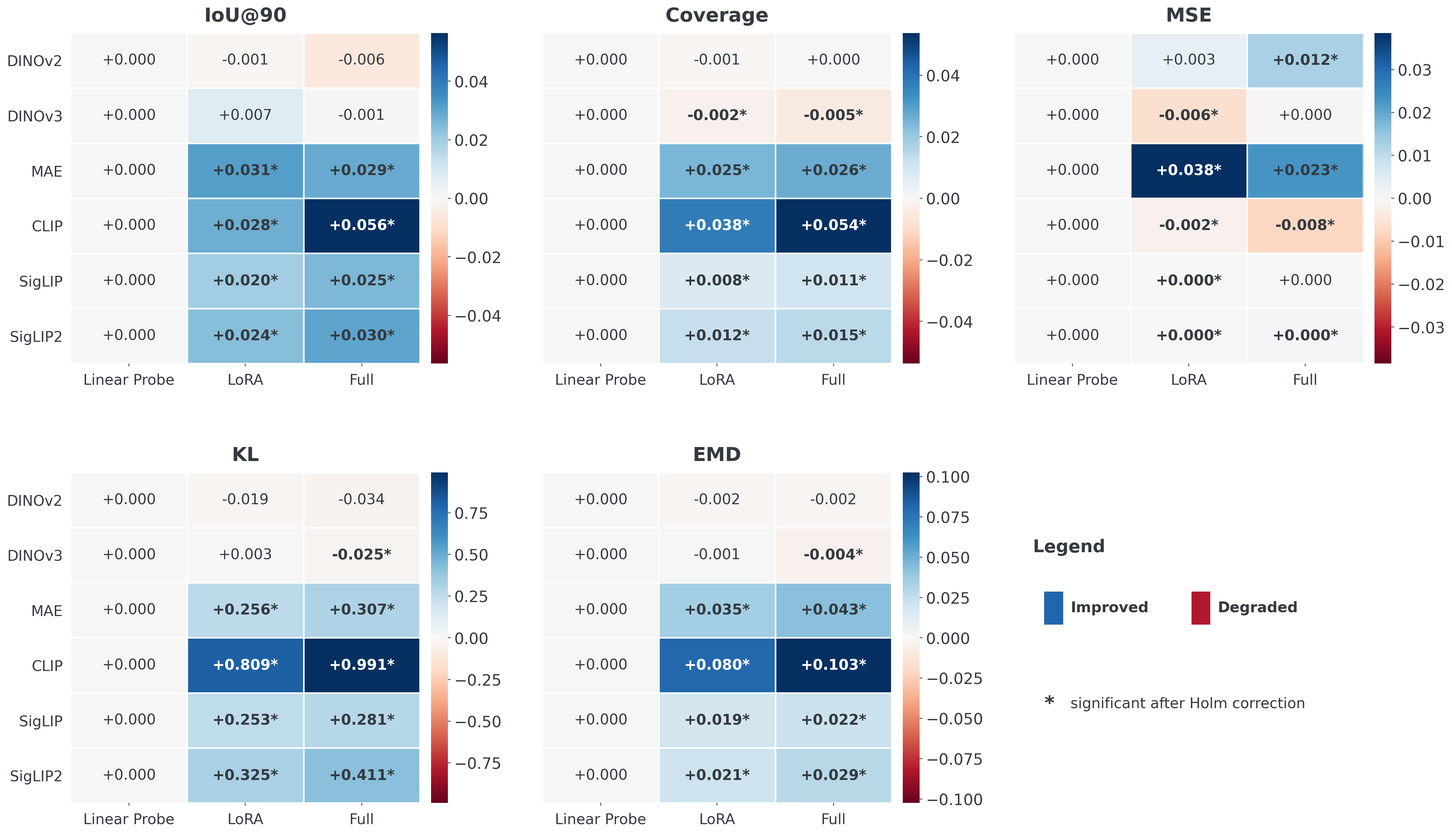
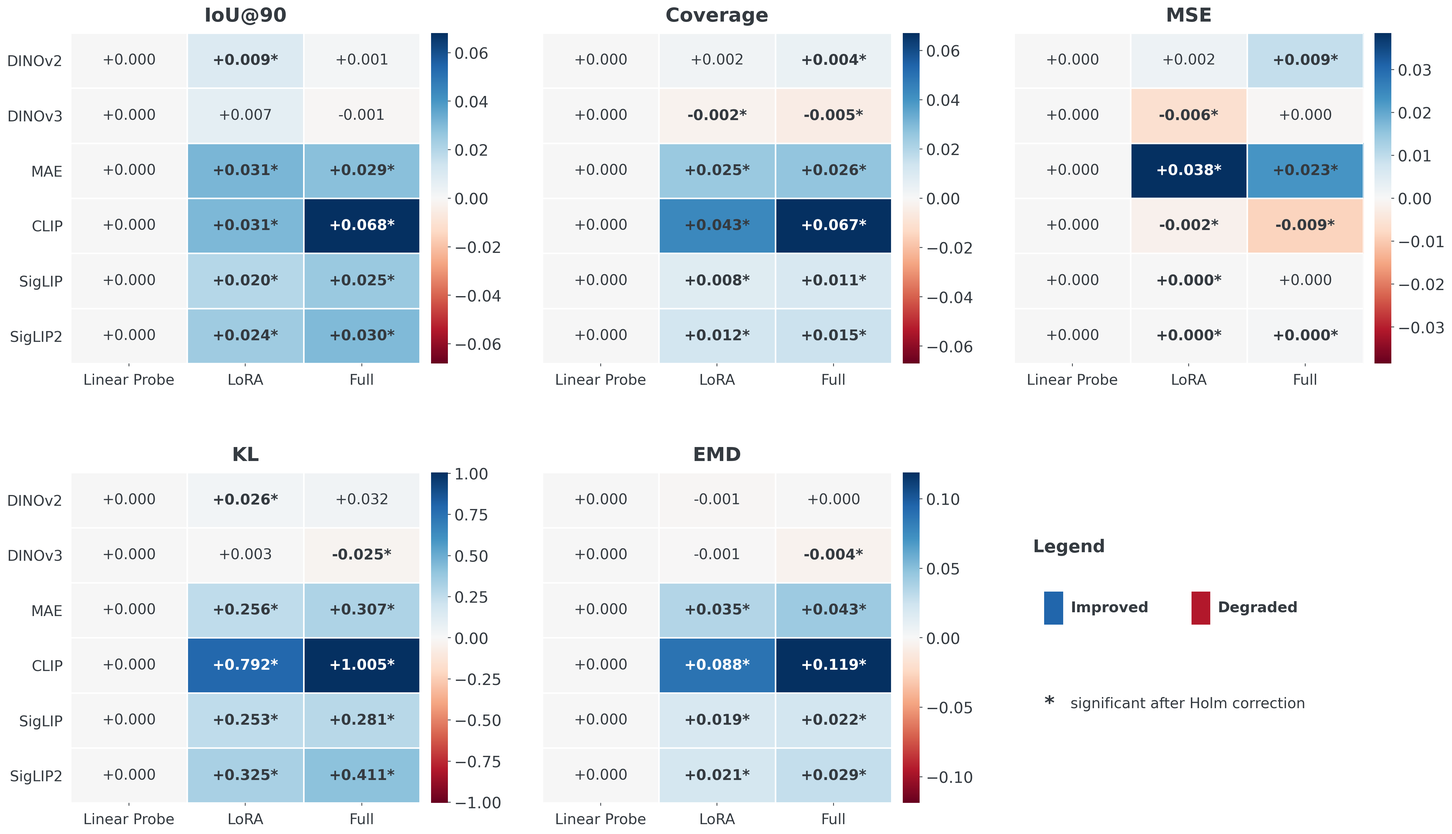
docs: describe image preprocessing and update DINOv2 and CLIP results (R1-Q4)
Implementation Details now gives the original image dimensions and the
full-image resize, and discloses that checkpoints were selected under
native preprocessing. Tables 3-5, Figs 3 and 5-8 and the RQ1-RQ3 text are
regenerated from the corrected caches. Limitations notes the aspect-ratio
distortion.

Refs: ssl_wikichurches-f9rh

diff --git a/docs/mva/round2_v1024_changes.tex b/docs/mva/round2_v1024_changes.tex
@@ -353,7 +353,7 @@ All statistical analyses use the image as the unit of analysis. For paired compa
 
 The WikiChurches benchmark dataset~\cite{Barz21WikiChurches} was divided into two non-overlapping subsets. The expert-annotated evaluation subset contains 139 images with 631 bounding-box annotation instances drawn from a 106-type architectural-feature ontology. The primary-style distribution is 51 Romanesque images with 217 boxes, 49 Gothic images with 290 boxes, 22 Renaissance images with 93 boxes, and 17 Baroque images with 31 boxes. This gives an average of 4.54 expert-annotated boxes per image overall. This subset was used only for attention-alignment evaluation and was excluded from all downstream training and validation splits.
 
-All images were loaded in RGB format. The WikiChurches bounding boxes are stored as normalized coordinates relative to the original image dimensions. During evaluation, each box was projected onto the common $224 \times 224$ image grid and converted into a binary mask. Multiple boxes from the same image were combined into a single union mask for overlap-based metrics. Negative normalized coordinates in the annotation file were clamped to zero before mask generation. Model attention maps were computed at the native patch-grid resolution of each backbone and then upsampled to $224 \times 224$ using bilinear interpolation. Each upsampled map was min-max normalized to $[0,1]$ on a per-image basis. DINOv2 uses $14 \times 14$ patches, giving a $16 \times 16$ patch grid for $224 \times 224$ inputs. DINOv3, MAE, CLIP, SigLIP, and SigLIP2 use $16 \times 16$ patches, giving a $14 \times 14$ patch grid. For EMD, both the attention map and target distributions were additionally resized to a shared $8 \times 8$ support before the transport-distance computation.
+The 139 evaluation images are JPEG files of varying size, from 414 to 2,281 pixels wide and 450 to 2,142 pixels high (median width and median height both 1,280 pixels), with width-to-height ratios between 0.60 and 1.78. All images were loaded in RGB format. For attention-alignment evaluation, each image was resized directly to $224 \times 224$ pixels without cropping, using each model's default interpolation (bicubic for DINOv2, CLIP, and SigLIP; bilinear for DINOv3, MAE, and SigLIP2). This resize changes the aspect ratio of non-square images, but it retains the full image extent, so no annotated region is excluded by cropping. The WikiChurches bounding boxes are stored as normalized coordinates relative to the original image dimensions. During evaluation, each box was rasterized on the same full-image $224 \times 224$ grid and converted into a binary mask, so the attention maps and the expert masks share one coordinate frame. Multiple boxes from the same image were combined into a single union mask for overlap-based metrics. Negative normalized coordinates in the annotation file were clamped to zero before mask generation. Model attention maps were computed at the native patch-grid resolution of each backbone and then upsampled to $224 \times 224$ using bilinear interpolation. Each upsampled map was min-max normalized to $[0,1]$ on a per-image basis. DINOv2 uses $14 \times 14$ patches, giving a $16 \times 16$ patch grid for $224 \times 224$ inputs. DINOv3, MAE, CLIP, SigLIP, and SigLIP2 use $16 \times 16$ patches, giving a $14 \times 14$ patch grid. For EMD, both the attention map and target distributions were additionally resized to a shared $8 \times 8$ support before the transport-distance computation.
 
 For downstream adaptation, we used four architectural style classes, including Romanesque, Gothic, Renaissance, and Baroque. Images without one of these four labels were excluded from style-classification training. The primary experiment used a shared stratified train-validation split with random seed 42. After removing the 125 expert-annotated evaluation images, the training split contained 3,671 images, and the validation split contained 917 images. The training split contained 1,214 Romanesque, 1,216 Gothic, 137 Renaissance, and 1,104 Baroque images; the validation split contained 303 Romanesque, 304 Gothic, 34 Renaissance, and 276 Baroque images. The same split was used for all models and adaptation strategies.
 
@@ -361,7 +361,7 @@ Pretrained model weights were loaded from Hugging Face checkpoints: DINOv2 from 
 
 We evaluated three model adaptation settings, including linear probing, LoRA adaptation, and full fine-tuning. In the linear-probe setting, the pretrained backbone was frozen, and a newly initialized four-class linear classifier was trained on top of the frozen representation. For DINOv2, DINOv3, MAE, and CLIP, the classifier used the \texttt{[CLS]}-token representation. For SigLIP and SigLIP2, which do not expose an equivalent \texttt{[CLS]}-token pathway, the classifier used the pooled visual representation. In the LoRA setting, the pretrained backbone weights remained frozen except for low-rank adapters inserted into the attention query and value projection layers. LoRA used rank 8, alpha 32, dropout 0.1, and no bias adaptation. For the 12-layer, 768-dimensional ViT-Base backbones used here, this corresponds to 294,912 trainable adapter parameters per backbone. The four-class classifier adds 3,076 trainable parameters. DINOv2 and MAE used the \texttt{query} and \texttt{value} target modules, while DINOv3, CLIP, SigLIP, and SigLIP2 used \texttt{q\_proj} and \texttt{v\_proj}. In the full fine-tuning setting, both the backbone parameters and the classification head were updated.
 
-All training runs used the AdamW optimizer with class-weighted cross-entropy to account for style imbalance. The batch size was 16, weight decay was 0.01, and training lasted for 3 epochs. The classifier-head learning rate was set to $1 \times 10^{-3}$ in all settings. The backbone learning rate was $1 \times 10^{-5}$ for full fine-tuning and $1 \times 10^{-4}$ for LoRA. The learning-rate schedule used linear warmup for 10\% of training steps, followed by cosine decay. Gradients were clipped to a maximum norm of 1.0. Training images were augmented using random resized crop to $224 \times 224$ with a scale range of $0.8$-$1.0$, random horizontal flipping with probability 0.5, and color jitter with brightness and contrast set to 0.2. Validation and attention-alignment evaluation used deterministic preprocessing and did not include these random augmentations.
+All training runs used the AdamW optimizer with class-weighted cross-entropy to account for style imbalance. The batch size was 16, weight decay was 0.01, and training lasted for 3 epochs. The classifier-head learning rate was set to $1 \times 10^{-3}$ in all settings. The backbone learning rate was $1 \times 10^{-5}$ for full fine-tuning and $1 \times 10^{-4}$ for LoRA. The learning-rate schedule used linear warmup for 10\% of training steps, followed by cosine decay. Gradients were clipped to a maximum norm of 1.0. Training images were augmented using random resized crop to $224 \times 224$ with a scale range of $0.8$-$1.0$, random horizontal flipping with probability 0.5, and color jitter with brightness and contrast set to 0.2. Validation and attention-alignment evaluation used deterministic preprocessing and did not include these random augmentations. Training and validation images were passed through each model's native Hugging Face preprocessing, which for DINOv2 and CLIP includes a central $224 \times 224$ crop. Checkpoints were selected on validation accuracy under this preprocessing, and attention maps from all checkpoints were then extracted with the full-image resize described above.
 
 For each model-strategy run, we selected the checkpoint with the highest classification accuracy on the shared non-annotated validation split. The selected checkpoint was then evaluated on the untouched 139-image expert-annotated subset for attention alignment. The experiment consists of 18 runs, corresponding to six models and three adaptation strategies. The selected epochs came from epochs 1 through 3, depending on the model and adaptation strategy, but every run was trained for the same maximum of 3 epochs.
 
@@ -379,20 +379,20 @@ Table~\ref{table RQ1 result} summarizes the results obtained using the five perf
 \begin{tabular}{cccccc}
 \toprule
 Vision foundation model & IoU@90 $\uparrow$ & Coverage $\uparrow$ & MSE $\downarrow$ & KL divergence $\downarrow$ & EMD $\downarrow$ \\ \midrule
-DINOv2    & 0.082 & 0.100 & 0.021 & 2.684 & 0.298 \\
+DINOv2    & 0.118 & 0.128 & 0.021 & 2.376 & 0.271 \\
 DINOv3     & 0.133 & 0.137 & 0.027 & 2.325 & 0.260 \\
 MAE        & 0.070 & 0.090 & 0.048 & 2.756 & 0.318 \\
-CLIP      & 0.049 & 0.085 & 0.021 & 2.912 & 0.326 \\
+CLIP      & 0.051 & 0.088 & 0.021 & 2.853 & 0.323 \\
 SigLIP    & 0.074 & 0.076 & 0.018 & 3.002 & 0.348 \\
 SigLIP2   & 0.047 & 0.071 & 0.017 & 3.071 & 0.354 \\ \bottomrule
 \end{tabular}
 \end{table}
 
-Among the remaining models, DINOv2 provides the second-best EMD and competitive IoU@90, demonstrating relatively strong spatial localization among the frozen models. MAE performs moderately on IoU@90 and Coverage but has the highest MSE, indicating weaker pixel-level agreement with expert annotations. CLIP shows relatively low IoU@90 and Coverage, indicating limited spatial overlap between its frozen attention maps and expert-annotated regions. SigLIP and SigLIP2 achieve the lowest MSE values, but their higher KL divergence and EMD scores indicate that their attention distributions remain less well aligned with expert annotations despite favorable pixel-wise error.
+Among the remaining models, DINOv2 ranks second on IoU@90, Coverage, KL divergence, and EMD, close behind DINOv3 (0.118 versus 0.133 on IoU@90), demonstrating relatively strong spatial localization among the frozen models. MAE performs moderately on IoU@90 and Coverage but has the highest MSE, indicating weaker pixel-level agreement with expert annotations. CLIP shows relatively low IoU@90 and Coverage, indicating limited spatial overlap between its frozen attention maps and expert-annotated regions. SigLIP and SigLIP2 achieve the lowest MSE values, but their higher KL divergence and EMD scores indicate that their attention distributions remain less well aligned with expert annotations despite favorable pixel-wise error.
 
 Since DINOv3 achieves the strongest overall attention alignment, as shown in Table~\ref{table RQ1 result}, we further examine whether its advantage is consistent with its model design. We hypothesize that DINOv3 benefits from the combination of large-scale self-supervised training and a training recipe intended to preserve dense spatial representations. The DINOv3 technical report~\cite{Simeoni26DINOv3} identifies dense-feature degradation as a potential failure mode during long self-supervised training and introduces Gram anchoring to stabilize patch-level feature maps. Because the RQ1 metrics explicitly measure spatial correspondence between the model attention map and expert-annotated architectural regions, a training strategy designed to preserve dense features provides a plausible explanation for DINOv3's stronger alignment.
 
-To further assess this explanation, we conduct two additional checks, summarized in Table~\ref{table RQ1 dinov3}. The first check evaluates robustness. Paired image-level comparisons show that DINOv3 consistently outperforms the next-best model across all metrics except MSE, with Holm-adjusted $p < 1.31 \times 10^{-7}$. This indicates that the observed advantage is not merely a leaderboard artifact caused by aggregation over images. The second check examines where DINOv3 performs best. If DINOv3 preserves cleaner patch-level spatial structure, its attention should align more strongly with mid-scale to large-scale architectural elements while remaining less effective for small ornamental details. This expectation matches our observations: DINOv3 performs best on visually prominent styles such as Gothic and Romanesque, aligns strongly with large coherent features such as Ornate Portals and Tracery Roses, but remains weak on small decorative elements such as Crockets and Pinnacles. The last three rows in Table \ref{table RQ1 dinov3} summarize where frozen DINOv3’s attention aligns best or worst with expert annotations: it scores highest on visually prominent structural styles/features and lowest on small ornamental details.
+To further assess this explanation, we conduct two additional checks, summarized in Table~\ref{table RQ1 dinov3}. The first check evaluates robustness. Paired image-level comparisons against the next-best model, DINOv2, show that DINOv3 outperforms it on all metrics except MSE, with Holm-adjusted $p \le 0.006$ (Wilcoxon signed-rank test over the 139 images, each model at its best layer). This indicates that the observed advantage is not merely a leaderboard artifact caused by aggregation over images, although the margin over DINOv2 is small. The second check examines where DINOv3 performs best. If DINOv3 preserves cleaner patch-level spatial structure, its attention should align more strongly with mid-scale to large-scale architectural elements while remaining less effective for small ornamental details. This expectation matches our observations: DINOv3 performs best on visually prominent styles such as Gothic and Romanesque, aligns strongly with large coherent features such as Ornate Portals and Tracery Roses, but remains weak on small decorative elements such as Crockets and Pinnacles. The last three rows in Table \ref{table RQ1 dinov3} summarize where frozen DINOv3’s attention aligns best or worst with expert annotations: it scores highest on visually prominent structural styles/features and lowest on small ornamental details.
 
 \begin{table}[!h]
 \centering
@@ -400,7 +400,7 @@ To further assess this explanation, we conduct two additional checks, summarized
 \begin{tabular}{lp{0.3\textwidth}p{0.35\textwidth}}
 \toprule
 Check & Result & Finding \\ \midrule
-Paired performance gap & $+0.0511$ (IoU@90), $+0.0369$ (Coverage), $+0.3595$ (KL divergence), $+0.0378$ (EMD) & DINOv3's lead is not an aggregation artifact. \\
+Paired performance gap & $+0.0150$ (IoU@90), $+0.0097$ (Coverage), $+0.0515$ (KL divergence), $+0.0111$ (EMD) & DINOv3's lead is not an aggregation artifact. \\
 Strongest styles & Gothic: 0.169 (IoU@90); Romanesque: 0.160 (IoU@90) & Alignment is highest for visually prominent structural styles. \\
 Strongest features & Ornate Portal: 0.214 (IoU@90); Tracery Rose: 0.164 (IoU@90) & Attention aligns well with large, coherent architectural parts. \\
 Weakest features & Crocket; Fleuron; Pinnacle & Small ornamental details remain challenging. \\
@@ -415,7 +415,7 @@ For RQ2, we assess whether intermediate layers and attention heads exhibit featu
 
 \subsubsection{A study on various layers}
 
-To evaluate how attention alignment varies across models' depth, we plot the IoU@90 performance of each model at every transformer layer in Figure~\ref{figure RQ2 layer ranking}. The layer-wise trends show significant differences across pretrained models. DINOv3 exhibits the clearest late-layer improvement, rising sharply after layer 6 and reaching the highest alignment at the final layer. DINOv2 also improves in later layers, but with a smaller and more gradual gain. In contrast, CLIP peaks in the earliest layers and declines substantially afterward, which indicates that its later visual representations are less spatially aligned with expert-annotated regions. MAE remains relatively stable across layers, while SigLIP and SigLIP2 show more irregular patterns with isolated mid-layer peaks. 
+To evaluate how attention alignment varies across models' depth, we plot the IoU@90 performance of each model at every transformer layer in Figure~\ref{figure RQ2 layer ranking}. The layer-wise trends show significant differences across pretrained models. DINOv3 exhibits the clearest late-layer improvement, rising sharply after layer 6 and reaching the highest alignment at the final layer. DINOv2 follows a similar late-layer pattern. Its IoU@90 rises from 0.063 at layer 6 to 0.111 at layer 7 and reaches 0.118 at the final layer, briefly exceeding DINOv3 at layers 8 and 9. In contrast, CLIP peaks in the earliest layers and declines substantially afterward, which indicates that its later visual representations are less spatially aligned with expert-annotated regions. MAE fluctuates between 0.031 and 0.070 across layers and reaches its highest value at the final layer, while SigLIP and SigLIP2 show more irregular patterns with isolated mid-layer peaks. 
 
 \begin{figure}[!h]
 \centering
@@ -433,7 +433,7 @@ To evaluate head-level behavior, we conduct two experiments. The first experimen
 \caption{Representative head-feature matrix for frozen DINOv3 at layer~10 using IoU@90. The shaded H8 column marks the dominant head in this setting. Lighter cells indicate weaker expert-annotated box alignment, while darker cells indicate stronger expert-annotated box alignment. The feature rows show that the dominant head aligns most strongly with portal-scale and facade-scale structures.\label{figure rq2_head_feature_matrix}}
 \end{figure}
 
-The second experiment examines the strongest and weakest feature alignments for each model's best-performing head. For each model, we identify its IoU@90 dominant head and rank all architectural features with at least three annotations. Figure~\ref{figure RQ2 top bottom} illustrates the two strongest and two weakest supported features for each model. DINOv3's \texttt{layer10/head8} reaches mean feature-level IoU@90 of 0.215 on \emph{Columned Portal}, 0.204 on \emph{Round Arch Portal}, and 0.181 on \emph{Ornate Portal}, while its weakest supported features are near zero for \emph{Blind Tracery}, \emph{Crocket}, and \emph{Tabernacle}. DINOv2 shows a similar portal-dominant top end and a similar failure boundary on small details. MAE also favours large facade parts, although its third-strongest feature is \emph{Wimperg}. CLIP's inclusion of \emph{Belt Course} indicates that feature extent and clean geometry also influence alignment. The strongest heads obtain spatial patterns compatible with expert-annotated structural parts. The weak cases show that poorly aligned features tend to be small, thin, and repeated across model families.
+The second experiment examines the strongest and weakest feature alignments for each model's best-performing head. For each model, we identify its IoU@90 dominant head and rank all architectural features with at least three annotations. Figure~\ref{figure RQ2 top bottom} illustrates the two strongest and two weakest supported features for each model. DINOv3's \texttt{layer10/head8} reaches mean feature-level IoU@90 of 0.215 on \emph{Columned Portal}, 0.204 on \emph{Round Arch Portal}, and 0.181 on \emph{Ornate Portal}, while its weakest supported features are near zero for \emph{Blind Tracery}, \emph{Crocket}, and \emph{Tabernacle}. DINOv2's strongest supported features are \emph{Ornate Portal} and \emph{Tracery Rose Window}, and it shows a similar failure boundary on small details. MAE also favours large facade parts, although its third-strongest feature is \emph{Wimperg}. CLIP's inclusion of \emph{Belt Course} indicates that feature extent and clean geometry also influence alignment. The strongest heads obtain spatial patterns compatible with expert-annotated structural parts. The weak cases show that poorly aligned features tend to be small, thin, and repeated across model families.
 
 \begin{figure}[!h]
 \centering
@@ -466,21 +466,21 @@ The RQ3 examines how downstream adaptation changes attention alignment with expe
 \begin{tabular}{lcccc}
 \toprule
 Vision foundation model & Romanesque & Gothic & Renaissance & Baroque \\ \midrule
-DINOv2  & $-$0.010 & +0.001 & $-$0.004 & $-$0.012 \\
+DINOv2  & +0.001 & +0.010 & $-$0.006 & $-$0.007 \\
 DINOv3  & $-$0.001 & +0.006 & $-$0.004 & $-$0.009 \\
 MAE     & +0.007 & +0.009 & +0.108 & +0.045 \\
-CLIP    & +0.066 & +0.079 & +0.014 & +0.013 \\
+CLIP    & +0.083 & +0.091 & +0.020 & +0.017 \\
 SigLIP  & +0.029 & +0.039 & $-$0.006 & +0.005 \\
 SigLIP2 & +0.034 & +0.044 & +0.007 & +0.007 \\
 \bottomrule
 \end{tabular}
 \end{table}
 
-The effect of adaptation differs across model families. DINOv2 and DINOv3 show near-zero $\Delta$ values across styles and adaptation strategies. This can be explained because expert-aligned spatial structure is already present in the pretrained representations, and the style-classification objective is absorbed by the classification head rather than reshaping backbone attention. CLIP shows the largest overall improvement after full fine-tuning. Its IoU@90 increases from 0.0181 to 0.0745, and its Coverage increases from 0.051 to 0.105, with a Cohen's $d \approx 1.0$). The style-level breakdown shows that this gain is concentrated mainly in Romanesque (+0.066) and Gothic (+0.079) images. In contrast, Renaissance (+0.014) and Baroque (+0.013) show much smaller gains. MAE shows a different adaptation profile. Its largest shift occurs for Renaissance images, where full fine-tuning produces a $\Delta$IoU@90 of +0.108. The SigLIP-family models show moderate but interpretable gains. Under full fine-tuning, SigLIP remains higher in absolute IoU@90, whereas SigLIP2 moves further in standardized-effect terms. 
+The effect of adaptation differs across model families. DINOv2 and DINOv3 show small $\Delta$ values across styles and adaptation strategies. Their aggregate $\Delta$IoU@90 ranges from $-$0.001 to +0.009 under LoRA and full fine-tuning, and their per-style values under full fine-tuning stay within $\pm$0.010. The only significant aggregate IoU@90 change among them is a modest LoRA gain for DINOv2 (+0.009). This can be explained because expert-aligned spatial structure is already present in the pretrained representations, and the style-classification objective is absorbed by the classification head rather than reshaping backbone attention. CLIP shows the largest overall improvement after full fine-tuning. Its IoU@90 increases from 0.0229 to 0.0910, and its Coverage increases from 0.054 to 0.121, with a Cohen's $d \approx 1.05$. The style-level breakdown shows that this gain is concentrated mainly in Romanesque (+0.083) and Gothic (+0.091) images. In contrast, Renaissance (+0.020) and Baroque (+0.017) show much smaller gains. MAE shows a different adaptation profile. Its largest shift occurs for Renaissance images, where full fine-tuning produces a $\Delta$IoU@90 of +0.108. The SigLIP-family models show moderate but interpretable gains. Under full fine-tuning, SigLIP remains higher in absolute IoU@90, whereas SigLIP2 moves further in standardized-effect terms. 
 
-The per-style results indicate that adaptation effects are not uniform across architectural categories. A Kruskal-Wallis test finds significant style moderation for CLIP ($p=7.2\times10^{-9}$), MAE ($p=3.8\times10^{-7}$), SigLIP ($p=1.5\times10^{-5}$), and SigLIP2 ($p=5.0\times10^{-7}$); DINOv2 and DINOv3 do not show significant style moderation ($p=0.18$, $p=0.12$), consistent with their near-zero per-style change profiles. These results suggest that adaptation mainly reshapes attention for models whose frozen spatial alignment is initially weaker or more style-dependent.
+The per-style results indicate that adaptation effects are not uniform across architectural categories. A Kruskal-Wallis test finds significant style moderation for CLIP ($p=7.8\times10^{-9}$), MAE ($p=3.8\times10^{-7}$), SigLIP ($p=1.5\times10^{-5}$), and SigLIP2 ($p=5.0\times10^{-7}$); DINOv2 and DINOv3 do not show significant style moderation ($p=0.21$, $p=0.12$), consistent with their small per-style change profiles. These results suggest that adaptation mainly reshapes attention for models whose frozen spatial alignment is initially weaker or more style-dependent.
 
-We further examine whether adaptation changes the dominant layer and attention head responsible for expert alignment. Figure~\ref{figure RQ3 head ranking} reports the top three layer-head locations for each model and adaptation strategy, ranked by mean IoU@90. DINOv3 provides the clearest case of head stability: the same \texttt{layer10/head8} remains the best-aligned head across frozen, LoRA, and full fine-tuning. DINOv2 shows a similar preserved-head pattern, although at lower absolute alignment. MAE is more flexible: its dominant head shifts from \texttt{layer10/head5} in the frozen model to \texttt{layer11/head7} under LoRA, and then returns to \texttt{layer10/head5} under full fine-tuning. CLIP shows the strongest reorganization. In the frozen model, its best heads are located in early layers, with \texttt{layer4/head5} leading. After adaptation, however, a late-layer head in \texttt{layer11} becomes the strongest adapted location, while \texttt{layer4/head5} remains close to its frozen score. Thus, CLIP's late-layer alignment is newly strengthened by adaptation rather than inherited from an already strong frozen late-layer head.
+We further examine whether adaptation changes the dominant layer and attention head responsible for expert alignment. Figure~\ref{figure RQ3 head ranking} reports the top three layer-head locations for each model and adaptation strategy, ranked by mean IoU@90. DINOv3 provides the clearest case of head stability: the same \texttt{layer10/head8} remains the best-aligned head across frozen, LoRA, and full fine-tuning. DINOv2 shows the same preserved-head pattern: \texttt{layer11/head11} remains its best-aligned head across frozen, LoRA, and full fine-tuning, at a similar absolute level to DINOv3. MAE is more flexible: its dominant head shifts from \texttt{layer10/head5} in the frozen model to \texttt{layer11/head7} under LoRA, and then returns to \texttt{layer10/head5} under full fine-tuning. CLIP shows the strongest reorganization. In the frozen model, its best heads are located in early layers, with \texttt{layer4/head5} leading. After adaptation, however, a late-layer head in \texttt{layer11} becomes the strongest adapted location, while \texttt{layer4/head5} remains close to its frozen score. Thus, CLIP's late-layer alignment is newly strengthened by adaptation rather than inherited from an already strong frozen late-layer head.
 
 \begin{figure}[!h]
 \centering
@@ -502,7 +502,7 @@ Two additional observations clarify the interpretation. First, the linear probe 
 
 \subsection{Limitations}
 
-This study has several limitations. First, the expert-annotated benchmark \cite{Barz21WikiChurches} used in this study is relatively small, containing 631 bounding-box instances across 139 images. The limited sample size constrains the statistical power of fine-grained analyses, especially for rare architectural features and underrepresented styles. In addition, the benchmark is restricted to architectural images. Therefore, the findings should not be assumed to generalize directly to other visual domains, such as medical images or general object-recognition datasets. Second, the measurement of attention alignment depends on metric design choices. For example, IoU@90 requires a thresholding rule for converting continuous attention maps into binary masks, and EMD depends on the spatial support used for transport-distance computation. Third, this study evaluates spatial attention alignment rather than causal model reasoning. Strong alignment between attention maps and expert-annotated regions indicates that a model's attention is spatially plausible with respect to human-recognized architectural evidence. However, it does not prove that the model causally relies on those regions when making predictions. 
+This study has several limitations. First, the expert-annotated benchmark \cite{Barz21WikiChurches} used in this study is relatively small, containing 631 bounding-box instances across 139 images. The limited sample size constrains the statistical power of fine-grained analyses, especially for rare architectural features and underrepresented styles. In addition, the benchmark is restricted to architectural images. Therefore, the findings should not be assumed to generalize directly to other visual domains, such as medical images or general object-recognition datasets. Second, the measurement of attention alignment depends on metric design choices. For example, IoU@90 requires a thresholding rule for converting continuous attention maps into binary masks, and EMD depends on the spatial support used for transport-distance computation. The full-image resize used for attention evaluation also distorts the aspect ratio of non-square images, which may affect models pretrained on aspect-preserving crops, and we did not evaluate aspect-preserving alternatives such as padding. For DINOv2 and CLIP, attention was evaluated on a different input geometry from the one used for checkpoint selection. Third, this study evaluates spatial attention alignment rather than causal model reasoning. Strong alignment between attention maps and expert-annotated regions indicates that a model's attention is spatially plausible with respect to human-recognized architectural evidence. However, it does not prove that the model causally relies on those regions when making predictions. 
 
 \section{Conclusions} \label{section conclusions}
 
